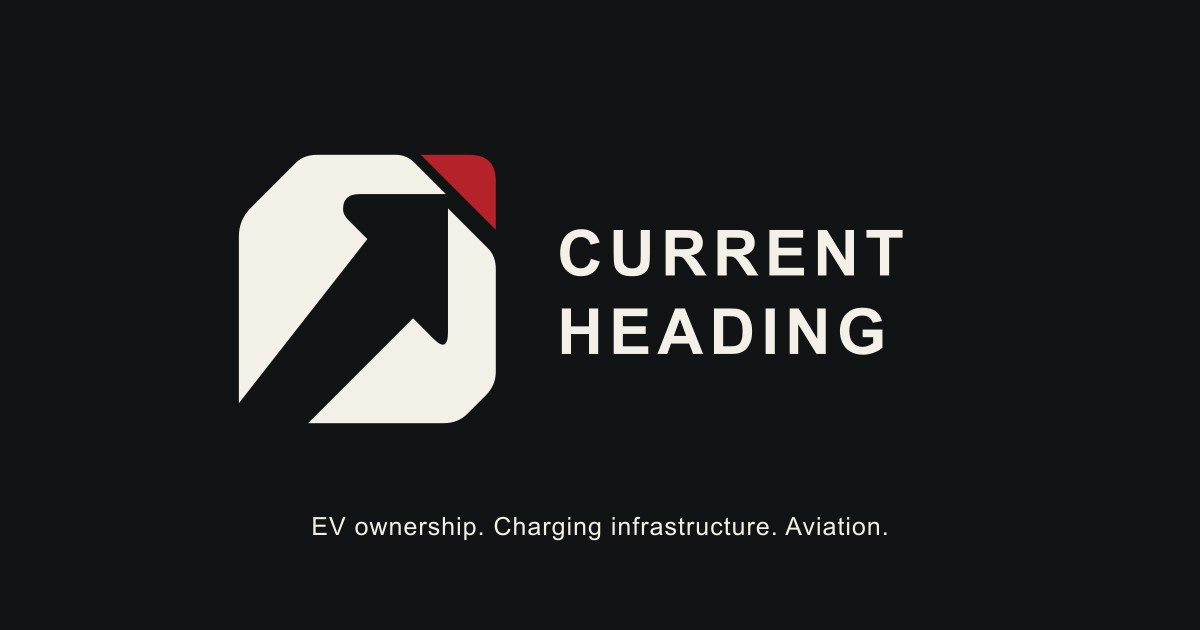
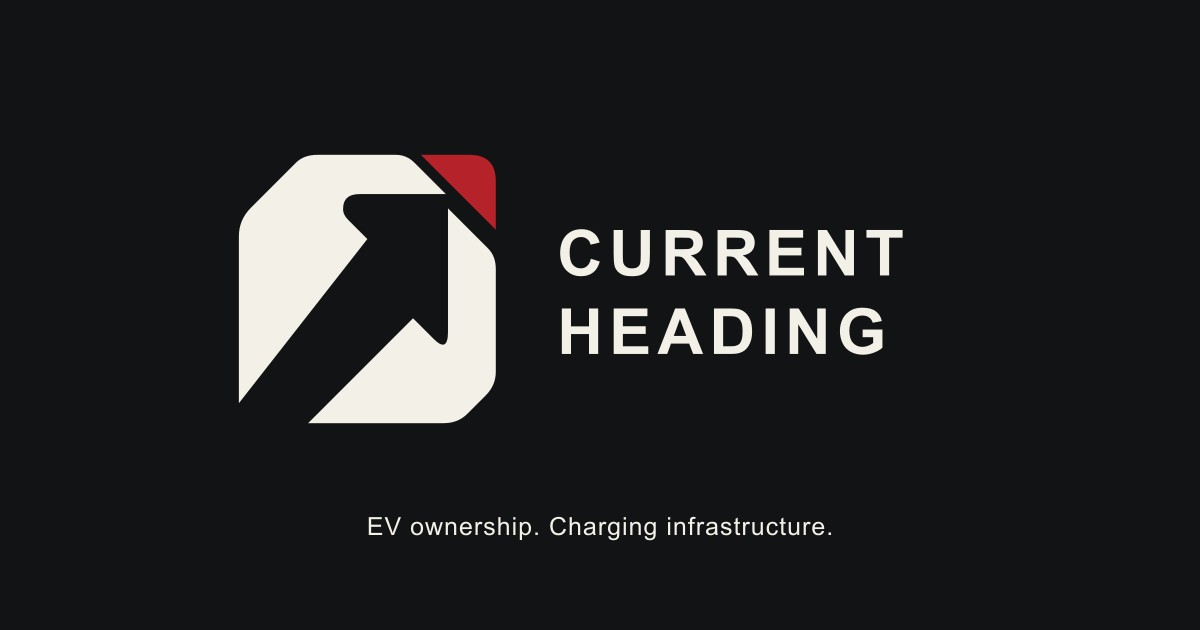
Focus website copy on EV ownership and charging

Changed region(s): [[0.2467, 0.8143, 0.74, 0.8746]]

diff --git a/README.md b/README.md
@@ -1,6 +1,6 @@
 # Current Heading
 
-Brand homepage for [Current Heading](https://currentheading.com), a YouTube channel covering EV ownership, DC fast charging, and aviation.
+Brand homepage for [Current Heading](https://currentheading.com), a YouTube channel covering EV ownership and charging infrastructure.
 
 ## Stack
 
